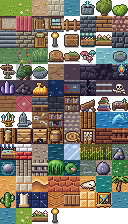
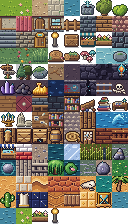
화풍 통일(지역 4): 카펫·책장·부러진 기둥 다시 그림(통합 검토)
카펫은 바탕을 brick.shade로 내리고 격자를 brick.ol로(색 보정 아래 분홍 → 짙은 빨강).
책등은 왼쪽 1px 밝음 + 그늘(얇은 책은 기본)로 명도 차이를 키워 1배에서도 책이 꽂힌 책장으로 읽히게(평균 명도는 바닥보다 낮게 유지).
부러진 기둥은 크림 대리석 + 옆에 누운 기둥 토막으로(룬 비석과 다른 색·실루엣).

Changed region(s): [[0.125, 0.4062, 0.25, 0.5938], [0.5, 0.4375, 0.625, 0.5], [0.375, 0.5, 0.5, 0.5625]]

diff --git a/tools/art/library_tiles.py b/tools/art/library_tiles.py
@@ -11,14 +11,14 @@
   외곽선·그늘 단계, 벽 앞면(lib_wall)은 돌 블록 + 나무 징두리 판벽, 책장(bookshelf)은 그늘진 나무 틀 속 책등.
   같은 책장이 100칸 넘게 이어지므로 한 칸 안의 위·아래 칸에 키·색·기울기가 다른 책을 비대칭으로 꽂아
   가로·세로로 이어도 '같은 칸 × 격자'로 읽히지 않게 한다.
-- 숨겨진 길 shelf_gap은 책장과 같은 틀·위 칸에, 아래 칸 가운데 책 네 권이 빠져 뒤판 없는 깊은 어둠(void)이 보이고
+- 숨겨진 길 shelf_gap은 책장과 같은 틀·위 칸에, 아래 칸 가운데 책 세 권이 빠져 뒤판 없는 깊은 어둠(void)이 보이고
   그 바닥에 쓰러진 책 한 권, 어둠 속에서 찬 바람 한 점(청록)이 샌다. 바로 아래 칸이 떠 있는 낱장(floating_pages).
 - 물체(bookshelf_fallen, book_pile, reading_desk, candle_frozen, broken_pillar)는 맵의 deco 레이어에 마루 위로
   겹쳐 그려지므로 배경이 투명하다. 바깥 외곽선은 auto_outline(재질 ol), 발치에 반투명 그림자.
 - 시간이 멈춘 도서관: 촛불은 불꽃 모양 그대로 청록 서리에 갇혀 있고(애니메이션 없음), 낱장은 공중에 멈춰 떠 있다.
 """
 from cozypal import auto_outline, c, noise, speckle
-from monsters import Px, ellipse
+from monsters import Px
 
 T = 16
 
@@ -87,19 +87,20 @@ LIB_FLOOR = lib_floor()
 
 # ── 바닥: 카펫(봉랍 빨강 바탕, 마름모 격자, 양피지 무늬) ───────────────────────────
 def lib_carpet(seed=411):
-    """빨강(brick) 바탕에 그늘색 마름모 격자. 마름모 가운데에 양피지 꽃 무늬(십자 4px + 가운데 1px),
-    격자가 만나는 칸 모서리(네 칸이 모이는 곳)에 작은 남색 점. 닳은 자국은 그늘 점. 사방으로 이어진다."""
+    """짙은 빨강(brick.shade) 바탕에 외곽선색 마름모 격자와 그 안쪽 기본색 줄. 마름모 가운데에 양피지 꽃 무늬
+    (테 + 가운데), 격자가 만나는 칸 모서리(네 칸이 모이는 곳)에 작은 남색 점. 닳은 자국은 외곽선색 점. 사방으로 이어진다.
+    brick.base 바탕은 게임 색 보정 아래에서 연어색 분홍으로 보여서 한 단계 내렸다."""
     g = []
     for y in range(T):
         row = ""
         for x in range(T):
             d = abs(x + 0.5 - 8) + abs(y + 0.5 - 8)
             if d == 8:
-                row += c("brick.shade")
+                row += c("brick.ol")
             elif d == 7:
-                row += c("brick.hi") if (x + y) % 2 else c("brick.base")
+                row += c("brick.base") if (x + y) % 2 else c("brick.shade")
             else:
-                row += c("brick.base")
+                row += c("brick.shade")
         g.append(row)
     for x, y in ((7, 6), (8, 6), (6, 7), (9, 7), (6, 8), (9, 8), (7, 9), (8, 9)):   # 가운데 무늬 테
         _set(g, x, y, c("cream.shade"))
@@ -108,7 +109,7 @@ def lib_carpet(seed=411):
     _set(g, 8, 8, c("cream.base"))
     for x, y in ((0, 0), (15, 0), (0, 15), (15, 15)):                               # 모서리 남색 점(2×2로 이어짐)
         _set(g, x, y, c("cloth_indigo.shade"))
-    g = speckle(g, "brick.base", "brick.shade", 0.04, seed)
+    g = speckle(g, "brick.shade", "brick.ol", 0.03, seed)
     return g
 
 
@@ -182,31 +183,28 @@ LIB_WALL_TOP = lib_wall_top()
 
 
 # ── 책장 ─────────────────────────────────────────────────────────────────────────
-# 책: (x, 폭, 키, 램프, 금박 띠 행 또는 None, 기울기). 위 칸 바닥은 6행, 아래 칸 바닥은 13행.
-# 책등은 왼쪽 열 기본·오른쪽 열 그늘(폭 1이면 기본), 맨 윗줄은 한 단계 밝게. 기울기 1이면 오른쪽으로 비스듬히 기댄 책.
+# 책: (x, 폭, 키, 램프, 금박 띠 행 또는 None). 위 칸 바닥은 6행, 아래 칸 바닥은 13행.
+# 두 칸 책등은 왼쪽 1px 세로 줄이 밝음(hi), 오른쪽이 그늘(shade), 얇은 책은 기본(base)이라 이웃 책과 명도가 엇갈려
+# 한 권씩 끊어져 보이면서 책장 전체는 바닥보다 어둡다(옛 그늘 위주 칠은 1배에서 갈색 칸막이로 뭉개짐). 색은 강조 램프
+# 남색·빨강·양피지가 주, 가죽·초록이 한 권씩.
 _TOP_BOOKS = [
-    (1, 2, 5, "brick", 2, 0), (3, 1, 4, "cream", None, 0), (4, 2, 5, "cloth_indigo", 1, 0), (6, 1, 3, "leather", None, 0),
-    (7, 2, 4, "cloth_green", None, 0), (9, 1, 5, "cream", 2, 0), (10, 2, 4, "brick", None, 0),
-    (13, 2, 5, "cloth_indigo", 2, 0),
+    (1, 2, 5, "brick", 1), (3, 1, 4, "cream", None), (4, 2, 5, "cloth_indigo", 2), (6, 1, 3, "cloth_green", None),
+    (7, 2, 5, "cream", 1), (9, 2, 4, "brick", None), (14, 1, 5, "cloth_indigo", 2),
 ]
 _BOTTOM_BOOKS = [
-    (1, 1, 4, "leather", None, 0), (2, 2, 5, "cloth_indigo", 1, 0), (4, 2, 4, "cream", None, 0),
-    (6, 2, 5, "brick", 2, 0), (8, 1, 3, "cloth_green", None, 0), (9, 2, 5, "leather", 1, 0),
-    (11, 2, 4, "cloth_indigo", None, 0), (13, 2, 5, "brick", 3, 0),
+    (1, 2, 4, "cloth_indigo", None), (3, 1, 5, "leather", 1), (4, 2, 5, "brick", 2), (6, 2, 4, "cream", None),
+    (8, 1, 5, "cloth_indigo", 1), (9, 2, 3, "cloth_green", None), (11, 2, 5, "cream", 2), (13, 2, 4, "brick", None),
 ]
-_LEAN = (12, 6, 4, "cream")      # 위 칸 빈자리(11~12열)에 기댄 얇은 양피지 책: (아래 x, 바닥 행, 키, 램프)
+_LEAN = (12, 6, 4, "cloth_indigo")   # 위 칸 빈자리(11~13열)에 기댄 남색 책: (아래 x, 바닥 행, 키, 램프)
 
 
 def _book(p, x, w, h, ramp, band, floor):
     for dx in range(w):
         for k in range(h):
-            y = floor - k
-            step = "base" if dx == 0 else "shade"
-            if k == h - 1:
-                step = "hi" if dx == 0 else "base"
-            p.put(x + dx, y, f"{ramp}.{step}")
+            step = "base" if w == 1 else ("hi" if dx == 0 else "shade")
+            p.put(x + dx, floor - k, f"{ramp}.{step}")
         if band is not None and h > band + 1:
-            p.put(x + dx, floor - h + 1 + band, "brass.base" if dx == 0 else "brass.shade")
+            p.put(x + dx, floor - h + 1 + band, "brass.hi" if dx == 0 else "brass.base")
 
 
 def _shelf(gap=False):
@@ -233,22 +231,20 @@ def _shelf(gap=False):
         _book(p, *b[:5], floor=6)
     lx, ly, lh, lr = _LEAN                                       # 기댄 책(대각선 2px 폭)
     for k in range(lh):
-        p.put(lx - 1 + k // 2, ly - k, f"{lr}.base")
-        p.put(lx + k // 2, ly - k, f"{lr}.shade")
-    p.put(lx - 1 + (lh - 1) // 2, ly - lh + 1, f"{lr}.hi")
+        p.put(lx - 1 + k // 2, ly - k, f"{lr}.hi")
+        p.put(lx + k // 2, ly - k, f"{lr}.base")
     for b in _BOTTOM_BOOKS:
         _book(p, *b[:5], floor=13)
     if gap:
-        # 아래 칸 가운데 책 네 권(5~10열)이 빠지고 뒤판도 없어 깊은 어둠이 보인다
+        # 아래 칸 가운데 책 세 권(6~10열)이 빠지고 뒤판도 없어 깊은 어둠이 보인다
         for y in range(9, 14):
-            for x in range(5, 11):
+            for x in range(6, 11):
                 p.put(x, y, "void")
-        p.put(4, 9, "wood.ol")                                     # 남은 책 사이의 그늘
-        for x in range(5, 10):                                     # 쓰러져 누운 책 한 권(빨강, 바닥에)
+        for x in range(6, 10):                                     # 쓰러져 누운 책 한 권(빨강, 바닥에)
             p.put(x, 13, "brick.shade")
-        p.put(5, 12, "brick.base")
         p.put(6, 12, "brick.base")
-        p.put(7, 12, "cream.shade")                                # 누운 책의 페이지 끝
+        p.put(7, 12, "brick.base")
+        p.put(8, 12, "cream.shade")                                # 누운 책의 페이지 끝
         p.put(9, 10, "teal.base")                                  # 틈으로 새는 찬 바람 한 점
         p.put(10, 13, "cream.shade")                               # 선반에 쌓인 먼지가 쓸린 자리
     return [
@@ -415,33 +411,40 @@ CANDLE_FROZEN = candle_frozen()
 
 # ── 물체: 부러진 기둥 ───────────────────────────────────────────────────────────
 def broken_pillar():
-    """홈 파인 청회 돌기둥이 비스듬히 부러졌다: 받침돌(넓음) 위 기둥 몸, 세로 홈(그늘 줄), 부러진 단면은 밝음,
-    옆에 떨어진 돌 조각."""
+    """홈 파인 크림 대리석 기둥이 들쭉날쭉 부러졌다: 받침돌 위 기둥 몸(세로 홈, 부러진 단면은 밝음, 회색 결 한 줄)과
+    오른쪽 바닥에 옆으로 누운 기둥 토막(끝면 원 + 가로 홈). 회색 stone이면 룬 비석(obj_rune)과 같은 회색 덩어리로
+    읽혀서 따뜻한 cream으로, 실루엣도 '선 기둥 + 누운 토막'으로 칸 폭을 거의 다 쓰게 했다."""
     p = Px()
     shaft = set()
-    tops = {4: 5, 5: 3, 6: 4, 7: 1, 8: 2, 9: 4}                     # 들쭉날쭉 부러진 윗면(묘비처럼 둥글지 않게)
+    tops = {2: 5, 3: 3, 4: 4, 5: 1, 6: 3, 7: 5}                     # 들쭉날쭉 부러진 윗면(묘비처럼 둥글지 않게)
     for x, top in tops.items():
         for y in range(top, 12):
             shaft.add((x, y))
-    p.mass(shaft, "stone")
-    for x in (5, 7):                                                # 세로 홈 두 줄
+    p.mass(shaft, "cream")
+    for x in (3, 5):                                                # 세로 홈 두 줄
         for y in range(tops[x] + 1, 11):
-            if p.get(x, y) == "stone.base":
-                p.put(x, y, "stone.shade")
+            if p.get(x, y) == "cream.base":
+                p.put(x, y, "cream.shade")
     for x, top in tops.items():                                     # 부러진 단면(밝음)
-        p.put(x, top, "stone.hi")
-    p.put(7, 1, "stone.spec")
-    for x in range(4, 10):                                          # 아래 고리 띠(기둥으로 읽히게)
-        p.put(x, 10, "stone.hi" if x < 7 else "stone.base")
-        p.put(x, 11, "stone.shade")
-    base = {(x, y) for x in range(2, 12) for y in (12, 13)}          # 넓은 받침돌
-    p.mass(base, "stone", shade_below=13)
-    cap = {(x, y) for x in range(11, 15) for y in (9, 10, 11)} - {(14, 9)}   # 떨어진 기둥머리 조각
-    p.mass(cap, "stone")
-    p.put(12, 10, "stone.shade")
-    p.put(4, 8, "moss.base")                                        # 틈에 낀 이끼 한 점
+        p.put(x, top, "cream.spec" if x == 5 else "cream.hi")
+    for x, y in ((6, 6), (7, 7), (6, 8)):                           # 대리석 결(회색 가는 줄)
+        p.put(x, y, "plank.shade")
+    base = {(x, y) for x in range(1, 9) for y in (11, 12, 13)} - {(1, 11), (8, 11)}   # 받침돌
+    p.mass(base, "cream", shade_below=13)
+    for x in range(2, 8):
+        p.put(x, 11, "cream.hi" if x < 5 else "cream.base")
+    # 옆으로 누운 기둥 토막(오른쪽 바닥): 몸통은 가로 홈, 왼쪽 끝면은 밝은 원
+    drum = {(x, y) for x in range(10, 16) for y in range(9, 14)} - {(15, 9), (15, 13)}
+    p.mass(drum, "cream", shade_below=13)
+    for x in range(11, 15):
+        p.put(x, 11, "cream.shade")
+    end = {(9, 10), (9, 11), (9, 12), (10, 9), (10, 10), (10, 11), (10, 12), (10, 13)}
+    for x, y in end:
+        p.put(x, y, "cream.hi" if (x, y) != (10, 13) else "cream.base")
+    p.put(10, 11, "cream.base")                                     # 끝면 가운데 홈
+    p.put(3, 8, "moss.base")                                        # 틈에 낀 이끼 한 점
     g = p.grid()
-    return _shadow(g, 15, 2, 13)
+    return _shadow(g, 15, 1, 15)
 
 
 BROKEN_PILLAR = broken_pillar()
